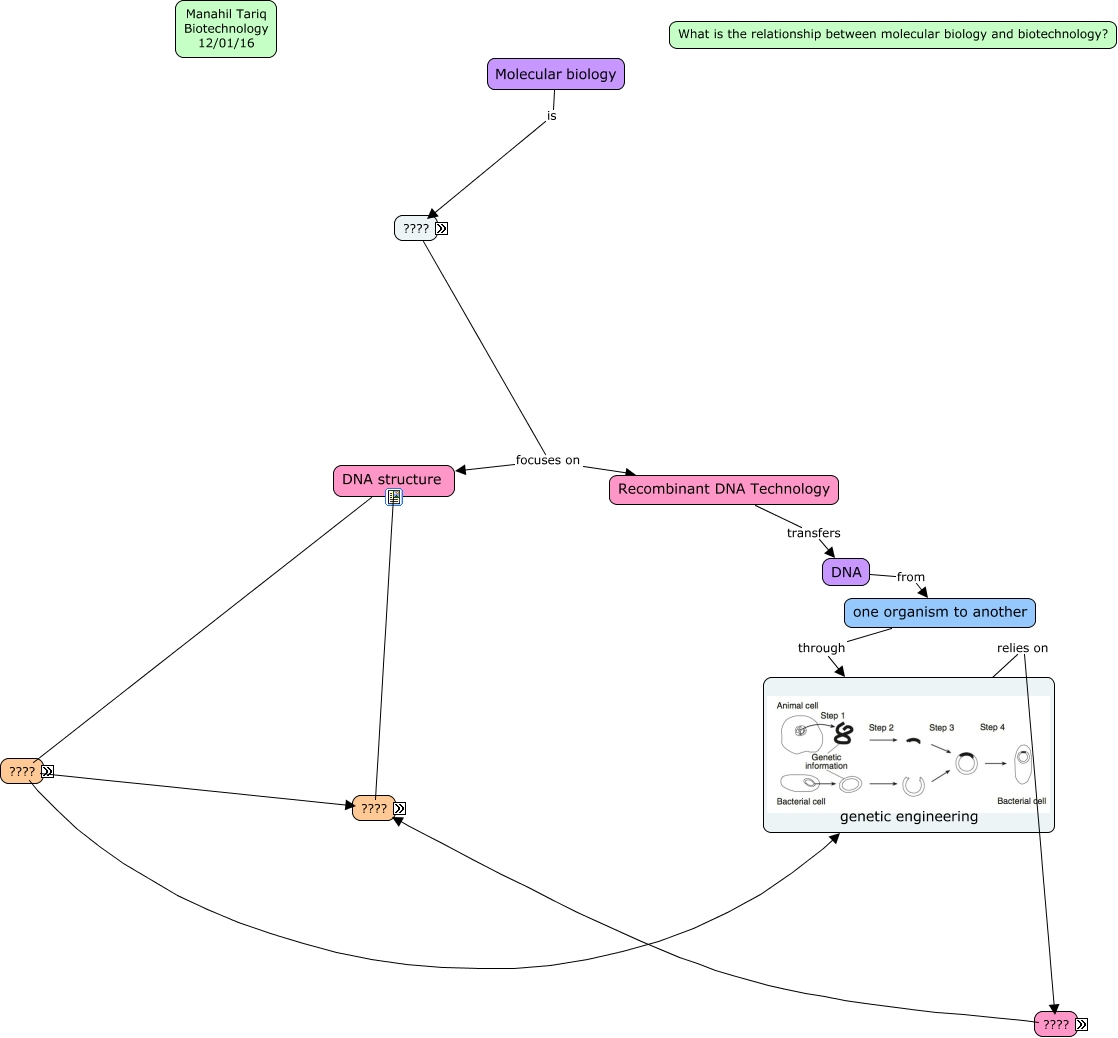
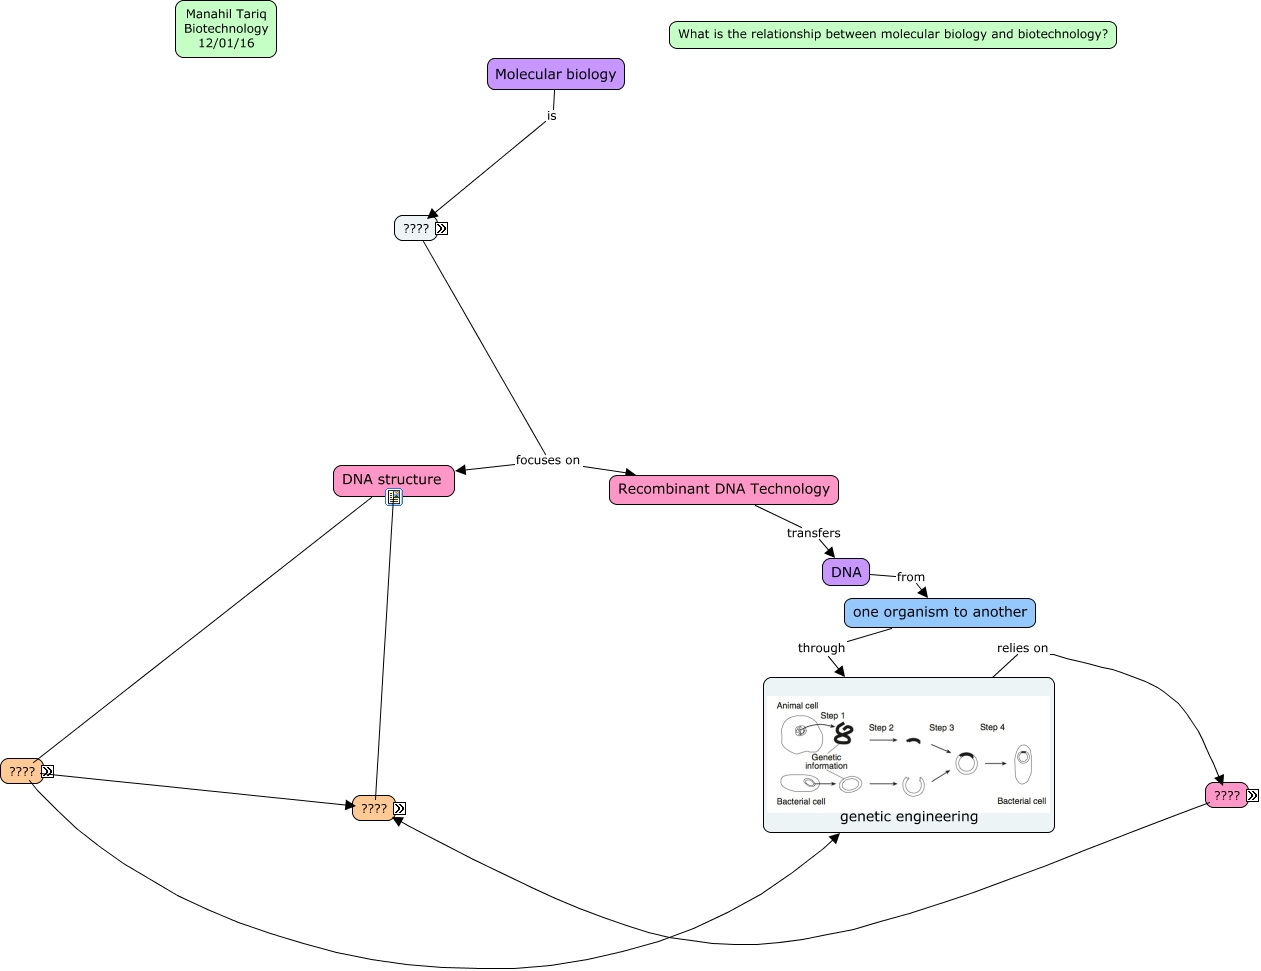
Add files via upload

diff --git a/Chapter4cMap/Chapter4cMap/Chapter4pt2.html b/Chapter4cMap/Chapter4cMap/Chapter4pt2.html
@@ -1,0 +1,368 @@
+<HTML>
+<HEAD>
+  <TITLE>Chapter4pt2.html</TITLE>
+  <meta NAME = "GENERATOR"          CONTENT = "IHMC CmapTools vr. 4.12 ">
+  <meta NAME = "KEYWORDS"           CONTENT = "Manahil Tariq, Concept Map, cmap, CmapTools, IHMC, Chapter4,  DNA replication,  bacteria,  Protein,  DNA structure,  cytosine,  ????,  translation,  bacterial tranformation,  purines,  What is the relationship between molecular biology and biotechnology?,  genetic engineering,  techniques,  DNA strands,  genetic information,  sense,  genetic information inherited by offspring,  sugar,  RNA,  Manahil Tariq Biotechnology 12/01/16,  ????">
+  <meta NAME = "DESCRIPTION"        CONTENT = "This Concept Map, created with IHMC CmapTools, has information related to: Chapter4, genetic engineering relies on techniques, techniques such as bacterial tranformation, techniques such as restriction enzyme digestion analysis, DNA transfered through DNA repllication, double helix is the basis of polymerase chain reaction, antisense include phosphate groups, Central Dogma is the flow of genetic information, antisense include nitrogenous bases, Molecular biology is transcription, ???? focuses on Recombinant DNA Technology, DNA structure is formed by DNA strands, thymine are purines, antisense include sugar, techniques such as ligation, thymine are pyrimidines, DNA strands are called sense, one organism to another through genetic engineering, translation referred to as Central Dogma, restriction enzyme digestion analysis fight bacteriophages, genetic information inherited by offspring which developed polymerase chain reaction">
+  <meta NAME = "AUTHOR"             CONTENT = "IHMC CmapTools">
+  <meta HTTP-EQUIV = "Content-Type" CONTENT = "text/html; charset = UTF-8">
+  <script LANGUAGE="JavaScript1.2">
+  <!--
+    //  PopUp --
+    //  Institute for Human and Machine Cognition, http://www.ihmc.us/
+    //  CmapTools, Version 4.11, http://cmap.ihmc.us/
+    //  Modify by: CmapTools Developers, cmapsupport@ihmc.us
+    //  Date: 12/14/2006
+
+    var IE = 0;
+    var IE4PC = 0;
+    var NS = 0;
+    var GECKO = 0;
+
+    var openpopups = new Array();
+
+    if (document.all) {                 // Internet Explorer Detected
+	   IE = true;	
+    }
+    else if (document.layers) {         // Netscape Navigator Detected
+	   NS = true;	
+    }
+    else if (document.getElementById) { // Netscape 6 Detected
+       GECKO = true;
+    }
+    else {
+	   alert("Unrecognized Browser Detected::\nSorry, your browser is not compatible.");
+    }
+
+    if (IE)
+    {
+	   OS = navigator.platform;
+	   VER = new String(navigator.appVersion);
+	   VER = VER.substr (0, VER.indexOf(" "));
+	   if ((VER < 4.8) && (OS == "Win32")) 
+	   {
+	       IE4PC = 1;
+	   }
+    }
+
+    function handleResize() {
+	    location.reload();
+	    return false;
+    }
+
+
+    if ((NS) && (navigator.platform == "MacPPC")) {
+	   window.captureEvents (Event.RESIZE);
+	   window.onresize = handleResize;
+    }
+
+    function openResource(event, resourcePath, resourceName, resourceType)
+    {
+	   var newwindow;
+
+       // Resource MIMETypes are enumerated as follows: 
+       // cMap     = Undefined
+       // Image    = 0
+       // Video    = 1
+       // Text     = 2
+       // Audio    = 3
+
+       popDown();
+
+	   switch (resourceType) 
+	   {
+	    case 0:     //Image
+                    newwindow = window.open (resourcePath,resourceName);
+                    newwindow.onBlur = newwindow.focus()
+                    var text ='<center><img src=\"';
+                    text += resourcePath;
+                    text +='\"> </center>';
+             break;
+		
+	    case 1:  text   // Video
+		     newwindow = window.open (resourcePath,resourceName);
+                     newwindow.onBlur = newwindow.focus()
+                     var text ='<embed src=\"';
+                     text += resourcePath;
+                     text +='\" autostart=true> </embed> ';
+             break;
+
+	    case 2:      // Text or Unknown 
+		     newwindow = window.open(resourcePath,resourceName);
+                     newwindow.onBlur = newwindow.focus()
+              break;
+
+	    case 3:       // Audio
+                    newwindow = window.open (resourcePath,resourceName);
+                    newwindow.onBlur = newwindow.focus()
+                    var text ='<embed src=\"';
+                    text += resourcePath;
+                    text +='\" autoplay=true> </embed> ';
+             break;
+
+	    case 4:
+                    newwindow = window.open(resourcePath,resourceName);
+                    newwindow.onBlur = newwindow.focus()
+	     break;
+	    }
+        return;
+    }
+
+
+
+    function popUpEvt(event, popupName)
+    {
+	popDown();
+
+	if (GECKO)
+	{
+	    document.getElementById(popupName).style.left = event.layerX;
+	    document.getElementById(popupName).style.top = event.layerY;
+	    document.getElementById(popupName).style.background = "#B3B3B3";
+	    document.getElementById(popupName).style.visibility = "visible";
+	    openpopups.push(popupName);
+	}
+	else if (NS) 
+	{
+	    document.layers[popupName].moveTo (event.pageX, event.pageY);
+	    document.layers[popupName].bgColor = "#B3B3B3";
+	    document.layers[popupName].visibility = "show";
+	    openpopups.push(popupName);
+	}
+	else // if (IE)
+	{
+	    window.event.cancelBubble = true;
+	    if (!IE4PC) {
+		document.all[popupName].style.backgroundColor = "#B3B3B3";
+	    }	
+	    document.all[popupName].style.left = window.event.clientX + document.body.scrollLeft;
+	    document.all[popupName].style.top = window.event.clientY + document.body.scrollTop;
+	    document.all[popupName].style.visibility = "visible";
+	    openpopups[openpopups.length] = popupName;
+	}
+	return false;
+    }
+
+    function popDown()
+    {
+	var popupname;
+	
+	for (var i = 0; i < openpopups.length; i++) 
+	{
+	    popupname = new String (openpopups[i]);      
+	    if (GECKO) {
+		document.getElementById(popupname).style.visibility = "hidden";
+	    }
+	    else if (NS) {
+		document.layers[popupname].visibility = "hide";
+	    }
+	    else {
+		document.all[popupname].style.visibility = "hidden";
+	    }
+	}
+	openpopups = new Array();
+	return;
+    }
+
+    function popDownNoGecko() 
+    {
+	var popupname;
+	for (var i = 0; i < openpopups.length; i++) 
+	{
+	    popupname = new String (openpopups[i]);      
+	    if (GECKO) {
+           //  document.getElementById(popupname).style.visibility = "hidden"; 
+	        return;   // erased for test purposes
+	    }  
+	    else if (NS) {
+	        document.layers[popupname].visibility = "hide";
+	    }
+	    else {
+	        document.all[popupname].style.visibility = "hidden";
+	    }
+	}
+	openpopups = new Array();
+        return;
+    }
+  //-->
+  </script>
+</HEAD>
+<BODY bgcolor="#FFFFFF" leftmargin="0" topmargin="0">
+<noscript>
+  <table width=90% cellpadding=10>
+    <tr>
+      <td bgcolor=ff4447>
+        <font color=000000 size=+1 face="helvetica">
+        <h1>WARNING:</h1>
+        <b>JavaScript is turned OFF.  None of the links on this concept map will <br>
+           work until it is reactivated.
+          <p>
+            <a href="http://cmap.ihmc.us/docs/EnablingJavaScript.html">
+                            If you need help turning JavaScript On, click here.
+            </a>
+          </p>
+        </b>
+      </td>
+    </tr>
+  </table>
+This Concept Map, created with IHMC CmapTools, has information related to: Chapter4, genetic engineering relies on techniques, techniques such as bacterial tranformation, techniques such as restriction enzyme digestion analysis, DNA transfered through DNA repllication, double helix is the basis of polymerase chain reaction, antisense include phosphate groups, Central Dogma is the flow of genetic information, antisense include nitrogenous bases, Molecular biology is transcription, ???? focuses on Recombinant DNA Technology, DNA structure is formed by DNA strands, thymine are purines, antisense include sugar, techniques such as ligation, thymine are pyrimidines, DNA strands are called sense, one organism to another through genetic engineering, translation referred to as Central Dogma, restriction enzyme digestion analysis fight bacteriophages, genetic information inherited by offspring which developed polymerase chain reaction
+
+</noscript>
+
+<map name="Chapter4pt2.html">
+  <area shape="rect"
+        href="1QT8P621SI1XC7PMRIFPItextIhtml"
+        onClick="popUpEvt(event,'1QT8P621SI1XC7PMRIFPItextIhtml'); return false;"
+        coords="528,488,546,506">
+  <area shape="rect"
+        href="1QT8TR9DKI1DZTKQNI3C7ItextIhtml"
+        onClick="popUpEvt(event,'1QT8TR9DKI1DZTKQNI3C7ItextIhtml'); return false;"
+        coords="1765,932,1783,950">
+  <area shape="rect"
+        href="1QT8TYHBHI1CWDQ8KI3G2ItextIhtml"
+        onClick="popUpEvt(event,'1QT8TYHBHI1CWDQ8KI3G2ItextIhtml'); return false;"
+        coords="2010,1153,2028,1171">
+  <area shape="rect"
+        href="1QT8TSJ2JIKVS076I3F8ItextIhtml"
+        onClick="popUpEvt(event,'1QT8TSJ2JIKVS076I3F8ItextIhtml'); return false;"
+        coords="1912,1114,1930,1132">
+  <area shape="rect"
+        href="1QT8V1Y03I5P1LJYI3GSItextIhtml"
+        onClick="popUpEvt(event,'1QT8V1Y03I5P1LJYI3GSItextIhtml'); return false;"
+        coords="894,194,912,212">
+  <area shape="rect"
+        href="1QT8QJWT1I2Y06X3I1J7ItextIhtml"
+        onClick="popUpEvt(event,'1QT8QJWT1I2Y06X3I1J7ItextIhtml'); return false;"
+        coords="781,737,799,755">
+</map>
+
+<center>
+  <table width=* height=* cellpadding=0 cellspacing=0 border=0>
+    <tr>
+      <td valign=center align=center>
+        <img USEMAP="#Chapter4pt2.html"
+             SRC="Chapter4pt2.jpg"
+             ALIGN=middle
+             BORDER=0
+             onClick=popDown();>
+      </td>
+    </tr>
+    <tr>
+      <td VALIGN=top ALIGN=right>
+        <table>
+          <tr>
+            <td ALIGN=right VALIGN=middle>
+              <map NAME="CmapToolsTrademark">
+                <area SHAPE="rect"
+                      href="http://cmap.ihmc.us/"
+                      onClick="openResource(event,'http://cmap.ihmc.us/', 0, 2); return false;"
+                      coords="1,1,210,50">
+              </map>
+            </td>
+          </tr>
+          <tr>
+            <td  ALIGN=right VALIGN=middle>
+              <img USEMAP="#CmapToolsTrademark"
+                   SRC="CmapToolsTrademark.gif" 
+                   ALT="IHMC Cmap Tools Trademark" width="210" height="50"
+                   ALIGN=middle
+                   BORDER=0>
+            </td>
+            <td VALIGN=middle>
+            </td>
+          </tr>
+        </table>
+      </td>
+    </tr>
+  </table>
+</center>
+</BODY>
+</HTML>
+<div id="1QT8P621SI1XC7PMRIFPItextIhtml" style="POSITION: absolute; Z-INDEX: 20; VISIBILITY: hidden; left: 0; top: 0;">
+  <table border=1 cellpadding=1 cellspacing=0 bgcolor="#dddddd">
+    <tr>
+      <td nowrap><font face="Geneva, Arial" size=2>
+      <a href="https://youtu.be/o_-6JXLYS-k "TITLE="">
+      DNA Structure
+      </a>
+      </td>
+    </tr>
+  </table>
+</div>
+<div id="1QT8TR9DKI1DZTKQNI3C7ItextIhtml" style="POSITION: absolute; Z-INDEX: 20; VISIBILITY: hidden; left: 0; top: 0;">
+  <table border=1 cellpadding=1 cellspacing=0 bgcolor="#dddddd">
+    <tr>
+      <td nowrap><font face="Geneva, Arial" size=2>
+      <a href="https://www.dnalc.org/resources/animations/restriction.html "TITLE="">
+      RI
+      </a>
+      </td>
+    </tr>
+    <tr>
+      <td nowrap><font face="Geneva, Arial" size=2>
+      <a href="http://www.discoveryandinnovation.com/BIOL202/notes/lecture23.html "TITLE="">
+      image link
+      </a>
+      </td>
+    </tr>
+  </table>
+</div>
+<div id="1QT8TYHBHI1CWDQ8KI3G2ItextIhtml" style="POSITION: absolute; Z-INDEX: 20; VISIBILITY: hidden; left: 0; top: 0;">
+  <table border=1 cellpadding=1 cellspacing=0 bgcolor="#dddddd">
+    <tr>
+      <td nowrap><font face="Geneva, Arial" size=2>
+      <a href="http://sites.sinauer.com/cooper7e/animation0406.html "TITLE="">
+      I
+      </a>
+      </td>
+    </tr>
+    <tr>
+      <td nowrap><font face="Geneva, Arial" size=2>
+      <a href="http://www.sigmaaldrich.com/catalog/product/sigma/r7023?lang=en&region=US "TITLE="">
+      image link 3
+      </a>
+      </td>
+    </tr>
+  </table>
+</div>
+<div id="1QT8TSJ2JIKVS076I3F8ItextIhtml" style="POSITION: absolute; Z-INDEX: 20; VISIBILITY: hidden; left: 0; top: 0;">
+  <table border=1 cellpadding=1 cellspacing=0 bgcolor="#dddddd">
+    <tr>
+      <td nowrap><font face="Geneva, Arial" size=2>
+      <a href="http://scienceprimer.com/restriction-enzymes "TITLE="">
+      3
+      </a>
+      </td>
+    </tr>
+    <tr>
+      <td nowrap><font face="Geneva, Arial" size=2>
+      <a href="http://slideplayer.com/slide/6829507/ "TITLE="">
+      image link2
+      </a>
+      </td>
+    </tr>
+  </table>
+</div>
+<div id="1QT8V1Y03I5P1LJYI3GSItextIhtml" style="POSITION: absolute; Z-INDEX: 20; VISIBILITY: hidden; left: 0; top: 0;">
+  <table border=1 cellpadding=1 cellspacing=0 bgcolor="#dddddd">
+    <tr>
+      <td nowrap><font face="Geneva, Arial" size=2>
+      <a href="https://youtu.be/KIvBn6gfRgY "TITLE="">
+      Central Dogma
+      </a>
+      </td>
+    </tr>
+  </table>
+</div>
+<div id="1QT8QJWT1I2Y06X3I1J7ItextIhtml" style="POSITION: absolute; Z-INDEX: 20; VISIBILITY: hidden; left: 0; top: 0;">
+  <table border=1 cellpadding=1 cellspacing=0 bgcolor="#dddddd">
+    <tr>
+      <td nowrap><font face="Geneva, Arial" size=2>
+      <a href="http://www.electronicproducts.com/Sensors_and_Transducers/Sensors_and_Transducers/Breaking_paradigms_in_biochemical_sensing.aspx "TITLE="">
+      nitrogenous bases
+      </a>
+      </td>
+    </tr>
+  </table>
+</div>
+
